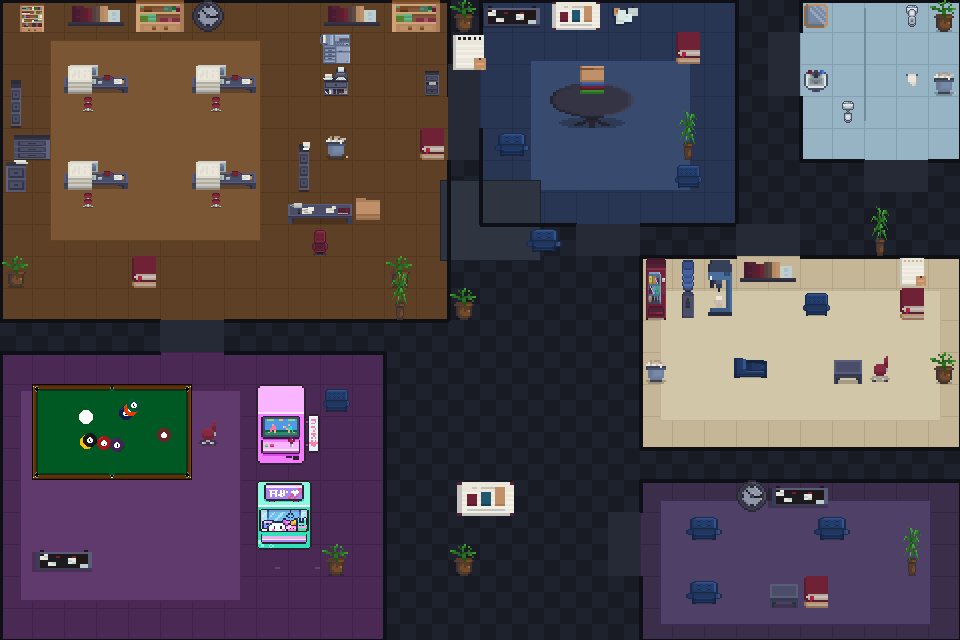
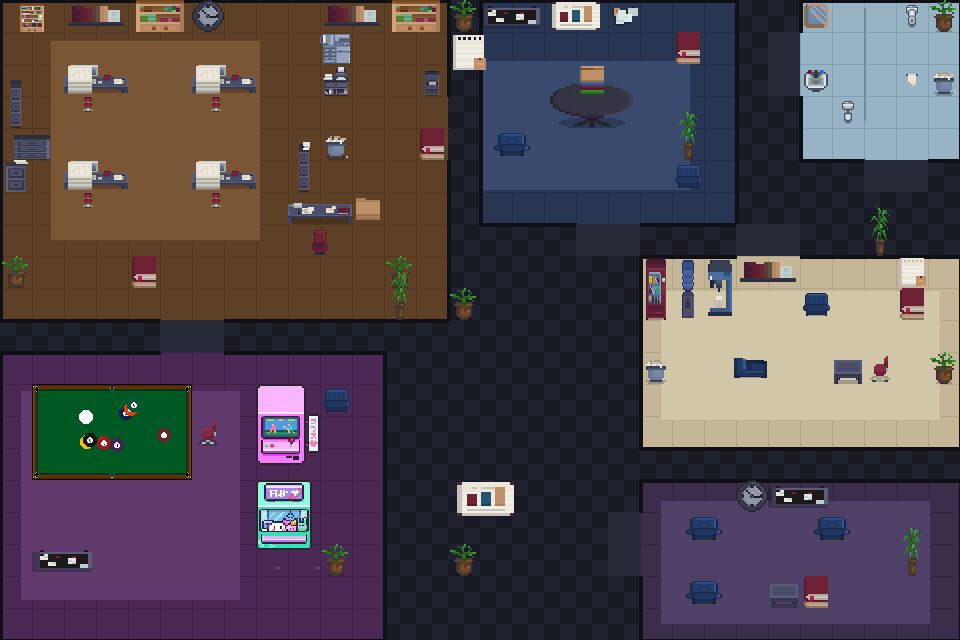
[Fix] Remove Stray Hallway Sofa and Its Orphaned Floor Rug
Removed the WORK/MEET lounge sofa entirely instead of relocating it again
per request. Also removed two things that combined into the "ugly square"
complaint even after the sofa moved:

- A standalone rug at (440,180)-(540,260) that existed only as a floor mat
  for that sofa — with the sofa gone it read as an unexplained dark patch
  in the middle of the hallway.
- The WORK door's corridor_stub floor fill and MEET's dead, unwired second
  door gap (both near the same spot), which combined into one oversized
  dark block; the WORK door gap now shows plain hallway floor, and the
  unused MEET gap is sealed as a solid wall.
- MEET's own rug widened to the room's left wall so its base floor color
  (close in tone to the hallway's own dark palette) no longer shows as an
  exposed margin right next to the doorway.

Changed region(s): [[0.4375, 0.0938, 0.5938, 0.4062]]

diff --git a/scripts/generate-office.py b/scripts/generate-office.py
@@ -92,17 +92,28 @@ for name,(x0,y0,x1,y1,color,grid) in ROOMS.items():
     floor_room(x0,y0,x1,y1,color,grid)
 
 rug(50,40,260,240,(122,86,52,255))
-rug(530,60,690,190,(56,74,110,255))
+# left edge extended to the room's own wall (480, was 530) — MEET's base
+# floor color is close enough to the hallway's dark tones that the exposed
+# margin there read as a stray dark patch floating next to the doorway.
+rug(480,60,690,190,(56,74,110,255))
 rug(660,290,940,420,(210,198,168,255))
 rug(20,390,240,600,(96,58,108,255))
-rug(440,180,540,260,(46,52,64,255))
+# the (440,180)-(540,260) hallway rug that used to sit under the lounge
+# sofa is gone along with the sofa itself — nothing sits on it anymore,
+# so it just read as an unexplained dark square in the middle of the floor.
 rug(660,500,930,624,(78,64,102,255))
 
-wall_v(WORK[1], WORK[3], WORK[2], gap=(3*TILE,5*TILE)); corridor_stub(WORK[2], 3*TILE, WORK[2]+TILE, 5*TILE)
+# WORK's right-hand door gap is left with plain hallway floor (no
+# corridor_stub fill) — the darker solid patch here used to combine with
+# MEET's dead second door-gap right below it into one ugly oversized block.
+wall_v(WORK[1], WORK[3], WORK[2], gap=(3*TILE,5*TILE))
 wall_h(WORK[0], WORK[2], WORK[3], gap=(5*TILE,7*TILE)); corridor_stub(5*TILE, WORK[3], 7*TILE, WORK[3]+TILE)
 wall_h(WORK[0], WORK[2], WORK[1]); wall_v(WORK[1], WORK[3], WORK[0])
 wall_h(MEET[0], MEET[2], MEET[3], gap=(18*TILE,20*TILE)); corridor_stub(18*TILE, MEET[3], 20*TILE, MEET[3]+TILE)
-wall_v(MEET[1], MEET[3], MEET[0], gap=(2*TILE,4*TILE)); corridor_stub(MEET[0]-TILE, 2*TILE, MEET[0], 4*TILE)
+# MEET's second (west) wall gap was never wired to a DOORS entry — nothing
+# ever paths through it — so it's sealed as a solid wall instead of a dead
+# doorway that only added visual clutter.
+wall_v(MEET[1], MEET[3], MEET[0])
 wall_h(MEET[0], MEET[2], MEET[1]); wall_v(MEET[1], MEET[3], MEET[2])
 wall_v(BATH[1], BATH[3], BATH[0], gap=(1*TILE,3*TILE)); corridor_stub(BATH[0]-TILE, 1*TILE, BATH[0], 3*TILE)
 wall_h(BATH[0], BATH[2], BATH[3], gap=(27*TILE,29*TILE)); corridor_stub(27*TILE, BATH[3], 29*TILE, BATH[3]+TILE)
@@ -223,10 +234,9 @@ place("Big-Plant", 28, 16)
 place("Books", 25, 18)
 
 # ===================== HALLWAY =====================
-# (13,6) used to straddle WORK's own right-hand wall (its x=448 wall line
-# cut straight through the sofa's footprint) — moved to the open channel
-# between WORK/MEET (top) and BAR (bottom), clear of every room rectangle.
-place("Small-Sofa", 16, 7)
+# The lounge sofa that used to sit here is gone — it originally straddled
+# WORK's own wall, then a relocation still looked awkward next to the
+# corridor floor patch above; removed rather than moved again, per request.
 place("Big-Plant", 12, 8)
 place("Big-Plant", 27, 6)
 place("Wall-Note", 14, 1, extra_scale=1.3)
